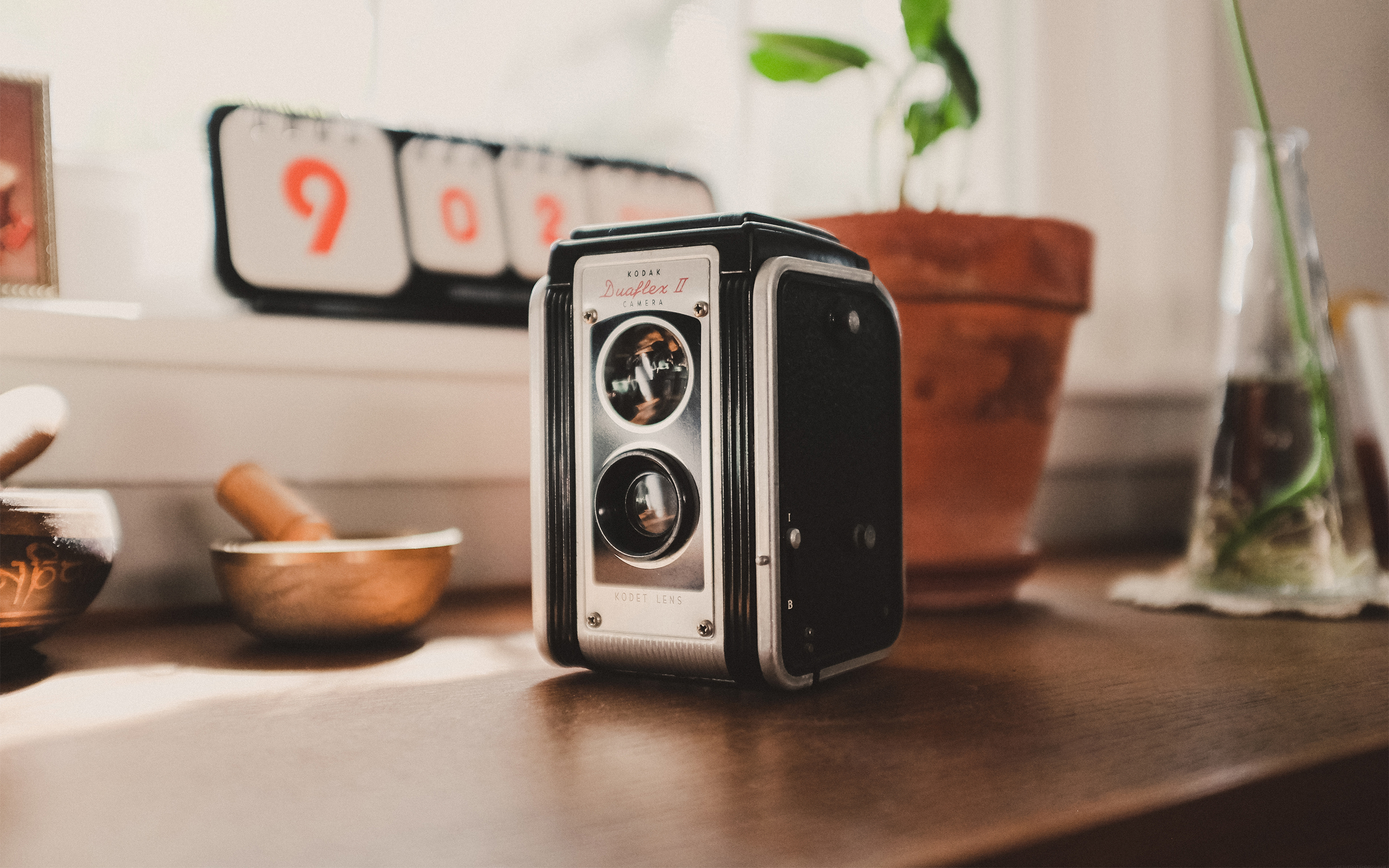
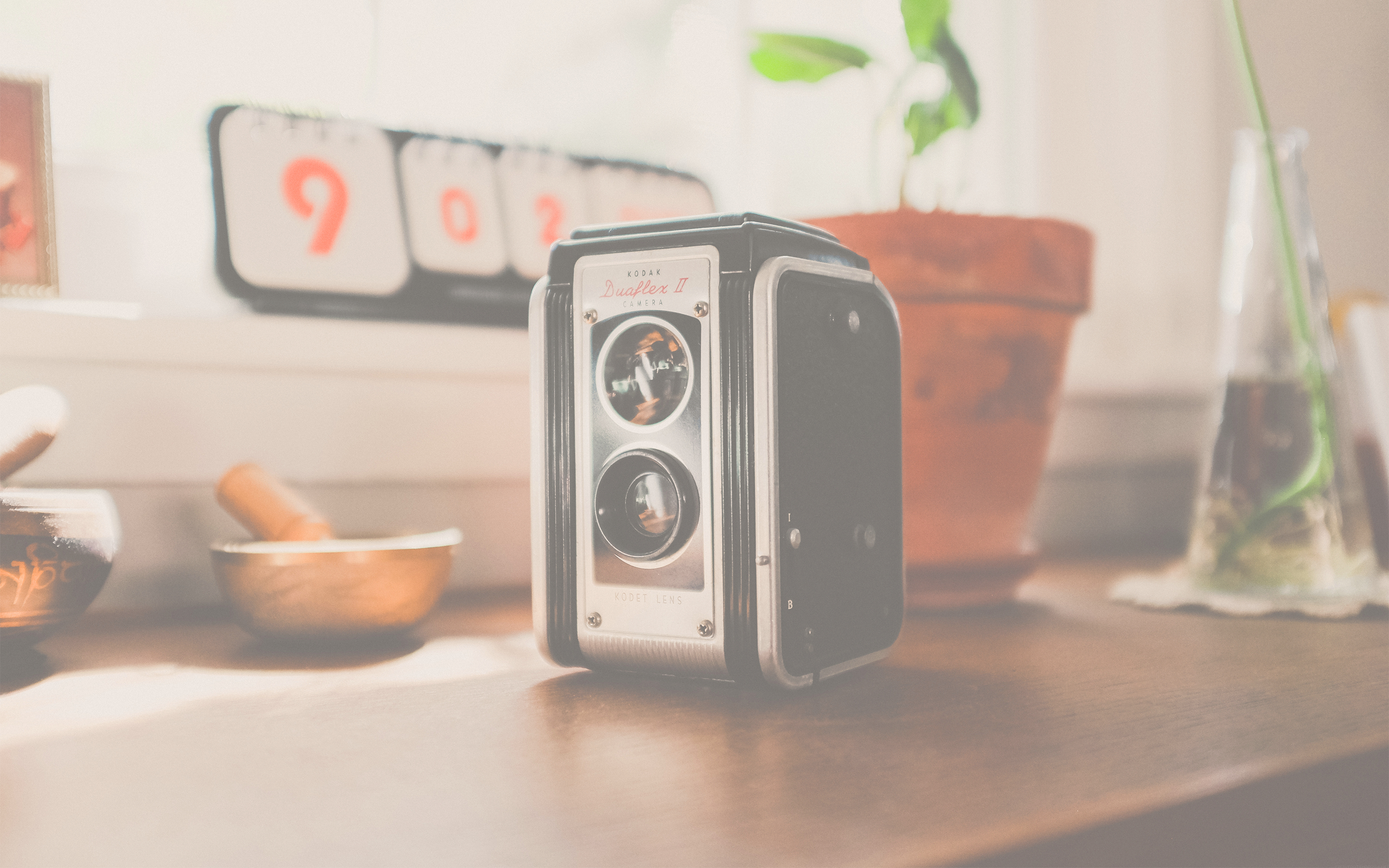
wallpapers: the Tweed pictures recoloured into the Tweed Day palette

diff --git a/README.md b/README.md
@@ -453,7 +453,7 @@ Add `--system` to install to `/usr/share/icons` instead, for every user and the
 login screen (asks for sudo); `--user` is the default.
 
 Wallpapers ship in [`backgrounds/`](backgrounds/), named `tweedday-<subject>`:
-the same five warm still lifes as Tweed: a turntable on wood, a record
+the same five warm still lifes as Tweed, lifted into Tweed Day's linen tones: a turntable on wood, a record
 on putty, a stack of cassettes, a twin-lens camera on a desk and a library
 under string lights, plus the anime portrait from the screenshot
 (`tweedday-anime.png`) in the palette's own tones. The record
